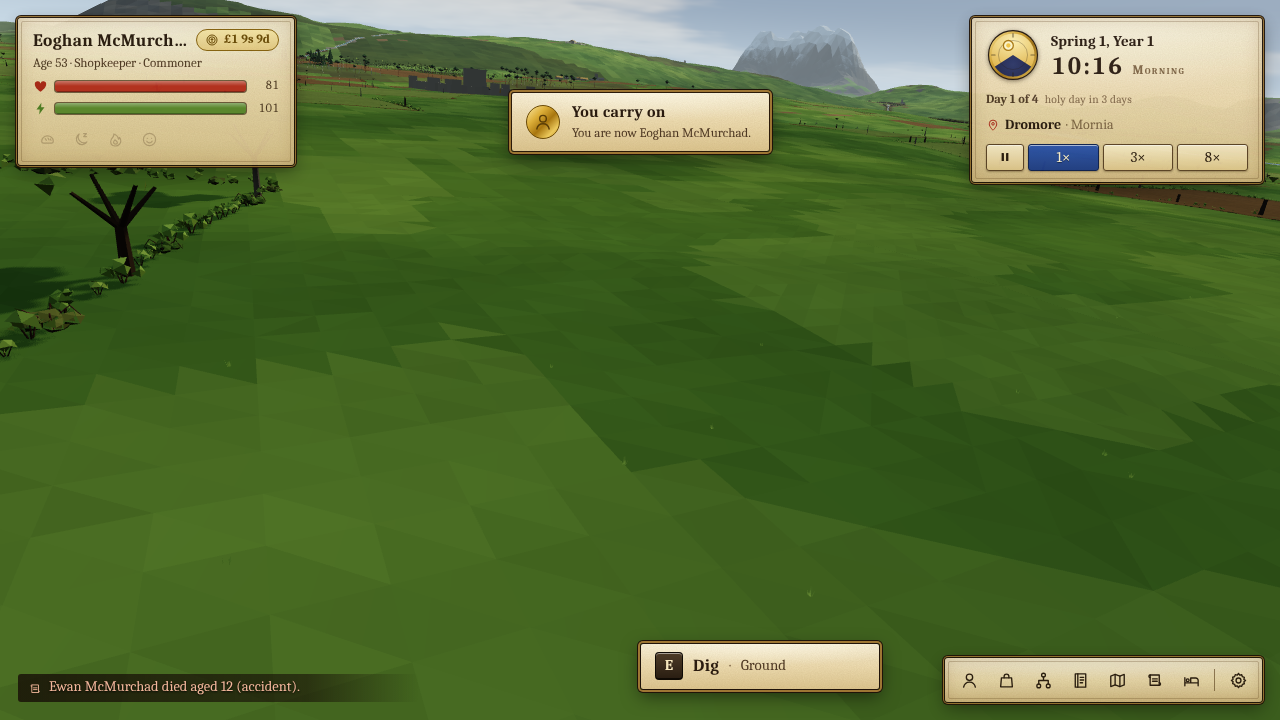
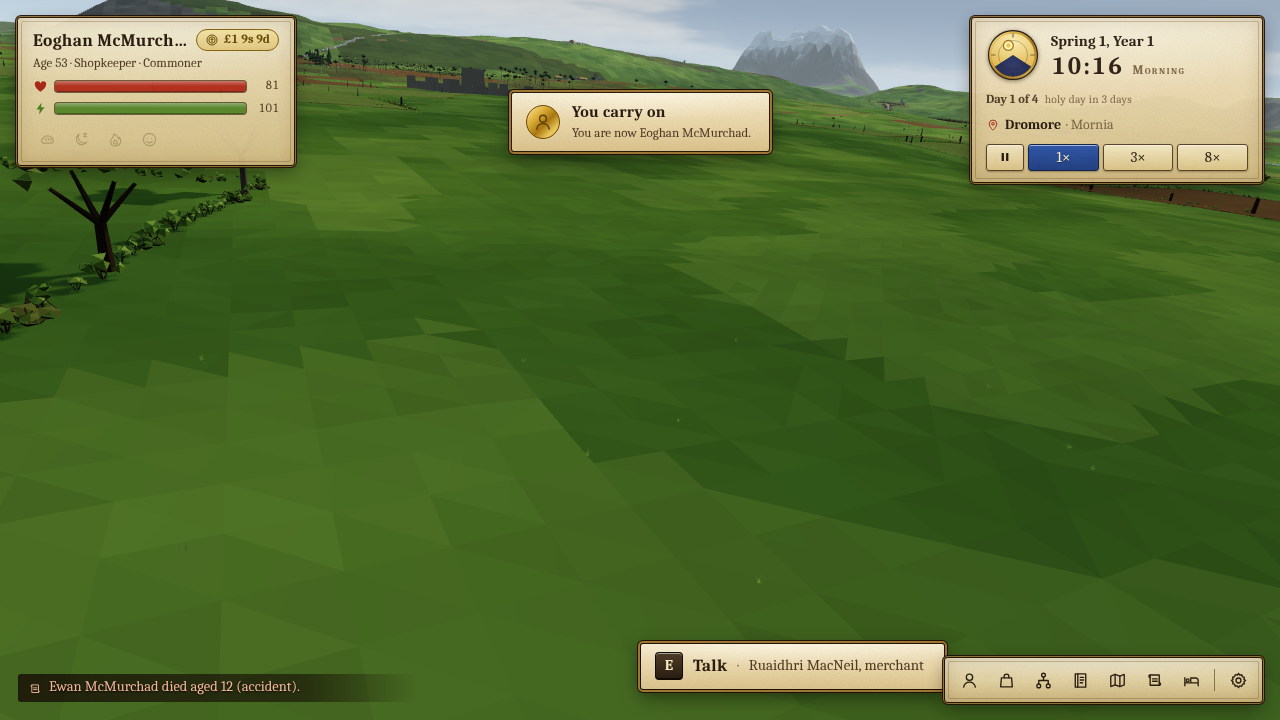
agents: claim/release animals, yard speed, interactables coordinates, scene tweaks

diff --git a/src/agents/animals.ts b/src/agents/animals.ts
@@ -97,6 +97,8 @@ export class Animal implements ZoneAnimal {
   circle = 0;
   spec: Spec | null = null;
   summoned = false;
+  /** The player rides it: not drawn, not simulated. */
+  claimed = false;
 
   constructor(id: number, kind: AnimalKind, draw: AnimalDrawItem) {
     this.id = id; this.kind = kind; this.draw = draw; this.info = KINDS[kind];
@@ -154,7 +156,7 @@ export class AnimalSystem {
   }
 
   clear(): void {
-    const keep = this.items.filter((a) => a.summoned && !a.dead);
+    const keep = this.items.filter((a) => (a.summoned || a.claimed) && !a.dead);
     this.items.length = 0;
     this.byId.clear();
     for (const a of keep) { this.items.push(a); this.byId.set(a.id, a); }
@@ -174,6 +176,23 @@ export class AnimalSystem {
     const a = this.spawn(spec, x, zz, true);
     if (a) a.summoned = true;
     return id;
+  }
+
+  /** The player mounts a horse: stop drawing and simulating it. */
+  claim(id: number): boolean {
+    const a = this.byId.get(id);
+    if (!a || a.dead || a.kind !== 'horse' || a.hostile || a.claimed) return false;
+    a.claimed = true; a.flee = 0;
+    return true;
+  }
+
+  /** The player dismounted: the horse stands here again. */
+  release(id: number, x: number, zz: number, yaw: number): void {
+    const a = this.byId.get(id);
+    if (!a || !a.claimed) return;
+    a.claimed = false;
+    a.x = x; a.z = zz; a.y = this.zone.nav.groundY(x, zz); a.yaw = yaw; a.dx = a.dz = a.dy = 0;
+    a.st = A.Idle; a.timer = 3; a.anchorX = x; a.anchorZ = zz; a.homeX = x; a.homeZ = zz;
   }
 
   dismiss(id: number): void {
@@ -201,7 +220,7 @@ export class AnimalSystem {
     const list = this.viewList;
     list.length = 0;
     for (const a of this.items) {
-      if (a.dead) continue;
+      if (a.dead || a.claimed) continue;
       const d = a.draw;
       d.x = a.x + a.dx * alpha; d.z = a.z + a.dz * alpha; d.y = a.y + a.dy * alpha;
       d.yaw = a.yaw;
@@ -226,8 +245,8 @@ export class AnimalSystem {
       const a = items[i];
       if (a.dead) { this.byId.delete(a.id); continue; }
       const dxf = a.x - fx, dzf = a.z - fz;
-      if (!a.summoned && dxf * dxf + dzf * dzf > LEAVE_RADIUS * LEAVE_RADIUS) { this.byId.delete(a.id); a.dead = true; continue; }
-      this.update(a, dt, night);
+      if (!a.summoned && !a.claimed && dxf * dxf + dzf * dzf > LEAVE_RADIUS * LEAVE_RADIUS) { this.byId.delete(a.id); a.dead = true; continue; }
+      if (!a.claimed) this.update(a, dt, night);
       if (a.dead) { this.byId.delete(a.id); continue; }
       items[w++] = a;
     }

diff --git a/src/agents/interact.ts b/src/agents/interact.ts
@@ -151,9 +151,10 @@ export function findInteractables(zone: Zone, x: number, z: number, yaw: number,
     const lx = (x - b.x) * c - (z - b.z) * s, lz = (x - b.x) * s + (z - b.z) * c;
     const ex = Math.max(0, Math.abs(lx) - def.w / 2), ez = Math.max(0, Math.abs(lz) - def.d / 2);
     const dFoot = Math.hypot(ex, ez);
-    const d = Math.min(dd, dFoot + 0.6);
-    if (d > range) return;
-    push({ kind: 'building', id: b.id }, dd < dFoot + 0.6 ? door.x : b.x, dd < dFoot + 0.6 ? door.z : b.z, d, def.name, 0.5);
+    // the point is always the door, so a caller checking its action range against (x, z) agrees with `distance`
+    void dFoot;
+    if (dd > range) return;
+    push({ kind: 'building', id: b.id }, door.x, door.z, dd, def.name, 0.5);
   });
   // trees and rocks
   zone.nav.obstacles.forSolids(x - range, z - range, x + range, z + range, (ch, i) => {
@@ -176,7 +177,8 @@ export function findInteractables(zone: Zone, x: number, z: number, yaw: number,
       if (!pointInPolygon(x, z, s.poly) && !pointInPolygon(fx, fz, s.poly)) continue;
       const ss = st.strips.get(id);
       const crop = ss ? CROP_NAMES[ss.crop] ?? ss.crop : 'fallow';
-      push({ kind: 'strip', id }, x, z, 0, ss && ss.crop === 'fallow' ? 'Fallow strip' : `Strip of ${crop}`, 3.4, false);
+      const inHere = pointInPolygon(x, z, s.poly);
+      push({ kind: 'strip', id }, inHere ? x : fx, inHere ? z : fz, inHere ? 0 : 1.1, ss && ss.crop === 'fallow' ? 'Fallow strip' : `Strip of ${crop}`, 3.4, false);
     }
   }
   const seenParcel = new Set<number>();
@@ -187,7 +189,8 @@ export function findInteractables(zone: Zone, x: number, z: number, yaw: number,
       seenParcel.add(id);
       const p = zone.world.parcels[id];
       if (!pointInPolygon(x, z, p.poly) && !pointInPolygon(fx, fz, p.poly)) continue;
-      push({ kind: 'parcel', id }, x, z, 0, PARCEL_NAMES[p.use], 3.8, false);
+      const inHere = pointInPolygon(x, z, p.poly);
+      push({ kind: 'parcel', id }, inHere ? x : fx, inHere ? z : fz, inHere ? 0 : 1.1, PARCEL_NAMES[p.use], 3.8, false);
     }
   }
   // best first

diff --git a/src/agents/nav/grid.ts b/src/agents/nav/grid.ts
@@ -3,7 +3,7 @@
 // view. Each cell has a terrain cost byte (0 = impassable water/cliff, else walkCost × 16) and a
 // solid flag byte (buildings, trunks, rocks). Tiles are validated by a tag, built on demand when a
 // query touches them, and also built ahead of the focus within a time budget.
-import { WORLD_SIZE, type WorldModel } from '../../world/types';
+import { Ground, WORLD_SIZE, type WorldModel } from '../../world/types';
 import { CELL, NAV_KEEP_RADIUS, NAV_MASK, NAV_N, PLAN_MARGIN, TILE_CELLS, TILES_PER_SIDE } from '../config';
 import { obbNearest } from '../geometry';
 import type { Obstacles } from './obstacles';
@@ -156,7 +156,9 @@ export class NavGrid {
         const x = x0 + (i + 0.5) * CELL;
         solid[idx] = 0;
         if (x < 0 || z < 0 || x >= WORLD_SIZE || z >= WORLD_SIZE) { terrain[idx] = 0; continue; }
-        const c = world.walkCostAt(x, z);
+        let c = world.walkCostAt(x, z);
+        // yards and cobbles are trodden ground whatever biome they were laid in (a croft in a marsh is not mud)
+        if (c > 1.15 && c !== Infinity) { const gr = world.groundAt(x, z); if (gr === Ground.Yard || gr === Ground.Cobbles || gr === Ground.Road || gr === Ground.Path) c = 1; }
         terrain[idx] = c === Infinity || c !== c ? 0 : Math.max(1, Math.min(255, Math.round(c * 16)));
         if (terrain[idx] === 0) blockedCells++;
       }

diff --git a/tests/agents/zone.test.ts b/tests/agents/zone.test.ts
@@ -265,6 +265,28 @@ describe('summoned people and animals', () => {
     expect(sim.hostileNear()).toBe(false);
   });
 
+  it('claims a horse for the player (no longer drawn or moved) and releases it where they dismount', () => {
+    const { zone, sim, focus } = rig;
+    focus.x = vil.x; focus.z = vil.z;
+    setClock(sim, 1, 2, 0.4);
+    zone.resync();
+    // a horse: summon one (household horses are not guaranteed in a village)
+    const id = zone.summonAnimal!('horse', vil.x + 5, vil.z + 5, false);
+    expect(zone.claimAnimal!(id)).toBe(true);
+    expect(sim.view.animals().some((d) => d.id === id)).toBe(false);
+    const a = zone.animals().find((q) => q.id === id)!;
+    const x0 = a.x;
+    run(sim, 2);
+    expect(a.x).toBe(x0);
+    expect(zone.claimAnimal!(id)).toBe(false);
+    zone.releaseAnimal!(id, vil.x + 9, vil.z + 3, 1);
+    run(sim, 0.2);
+    expect(sim.view.animals().some((d) => d.id === id)).toBe(true);
+    expect(Math.hypot(a.x - (vil.x + 9), a.z - (vil.z + 3))).toBeLessThan(1);
+    expect(zone.claimAnimal!(-12345)).toBe(false);
+    zone.dismissAnimal!(id);
+  });
+
   it('makes hold and release safe to repeat', () => {
     const { zone } = rig;
     const a = zone.agentsArr.find((q) => q.control === 'ai')!;

diff --git a/src/agents/dev/villageViewer.ts b/src/agents/dev/villageViewer.ts
@@ -165,7 +165,7 @@ export const SCENES: SceneSpec[] = [
     },
   },
   {
-    id: 'night', describe: 'night: the watch walks the streets, a few revellers go home', settlement: pickTown, season: 0, day: 2, time: 0.015, warm: 1,
+    id: 'night', describe: 'night: the watch walks the streets, a few revellers go home', settlement: pickWithButts, season: 0, day: 2, time: 0.015, warm: 1,
     frame: (c) => crowdPose(c, (a) => a.draw.mainHand === 'torch', 7, 1.7, 30),
     camera: (c) => {
       const sp = c.zone.places.of(c.s.id)!;

diff --git a/src/agents/zone.ts b/src/agents/zone.ts
@@ -572,6 +572,8 @@ export class Zone {
 
   summonAnimal(kind: AnimalKind, x: number, z: number, hostile: boolean): number { return this.fauna.summon(kind, x, z, hostile); }
   dismissAnimal(id: number): void { this.fauna.dismiss(id); }
+  claimAnimal(id: number): boolean { return this.fauna.claim(id); }
+  releaseAnimal(id: number, x: number, z: number, yaw: number): void { this.fauna.release(id, x, z, yaw); }
 
   say(person: PersonId, text: string, seconds = 3): void {
     const a = this.byPerson.get(person);
